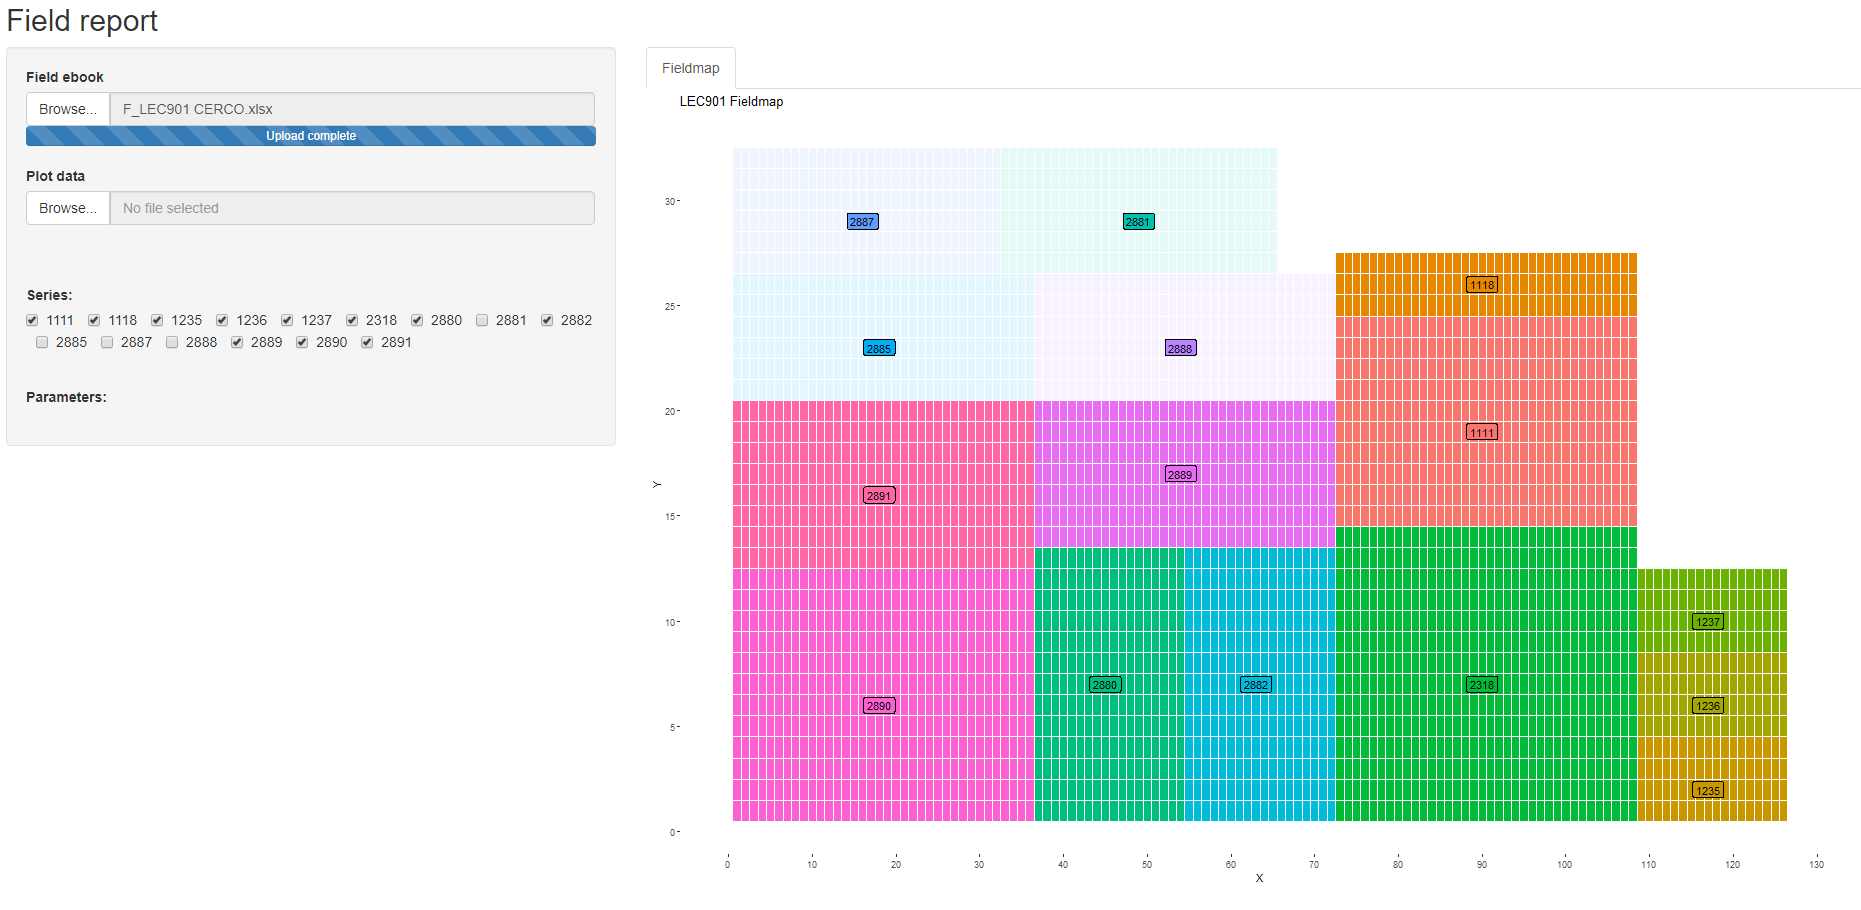
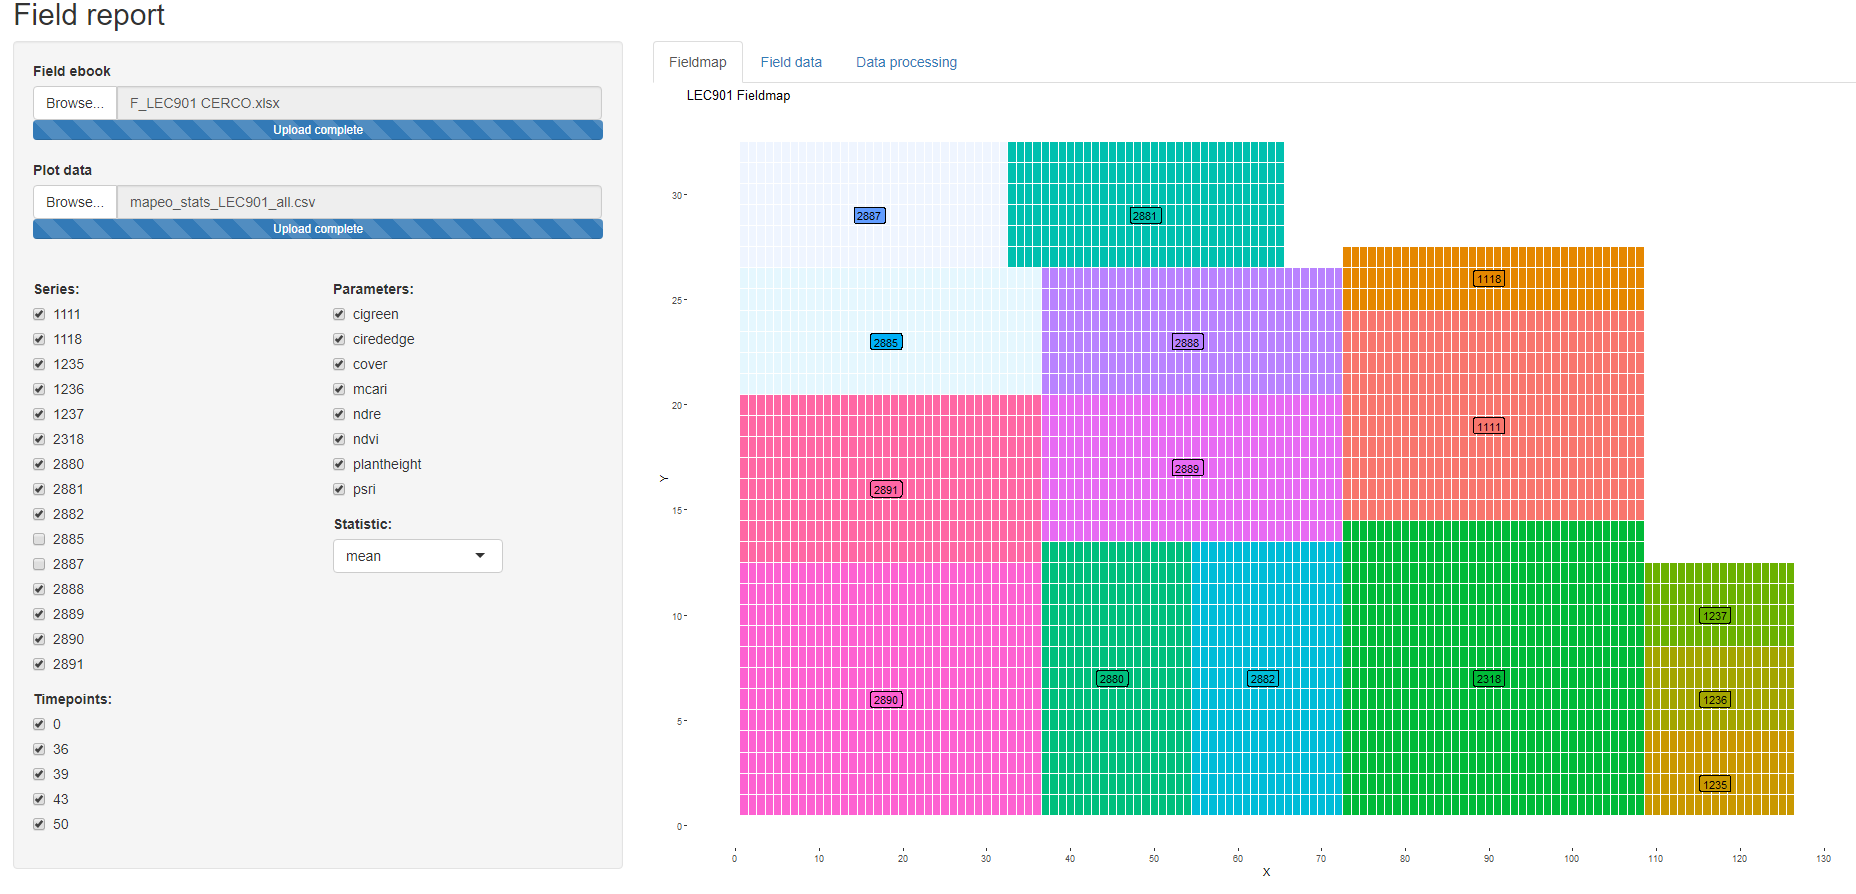
Updated plotting, readme and examples.

diff --git a/README.md b/README.md
@@ -1,4 +1,10 @@
 # FieldReportApp
  For visualizing a field and generating markdown reports from GUI.
 
+ ## Main tab layout
  ![Example](/Example.PNG)
+ 
+ ## Plotting tab layout
+ ![Example](/Example2.PNG)
+ 
+ ## Data processing tab to be done
